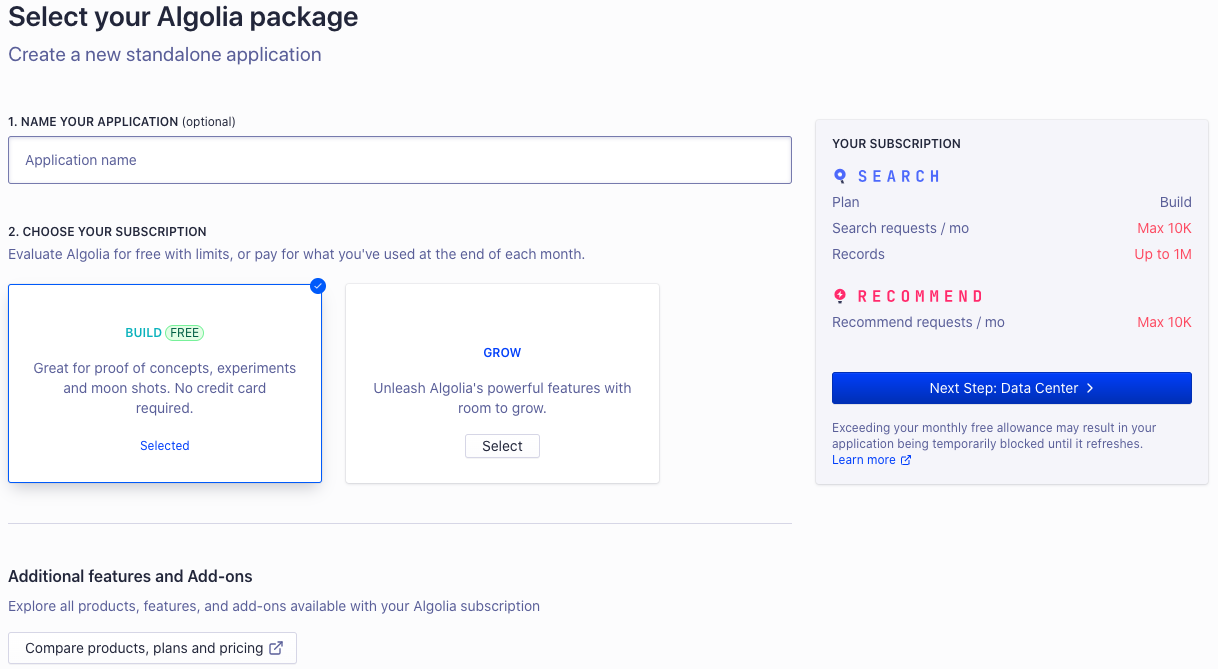
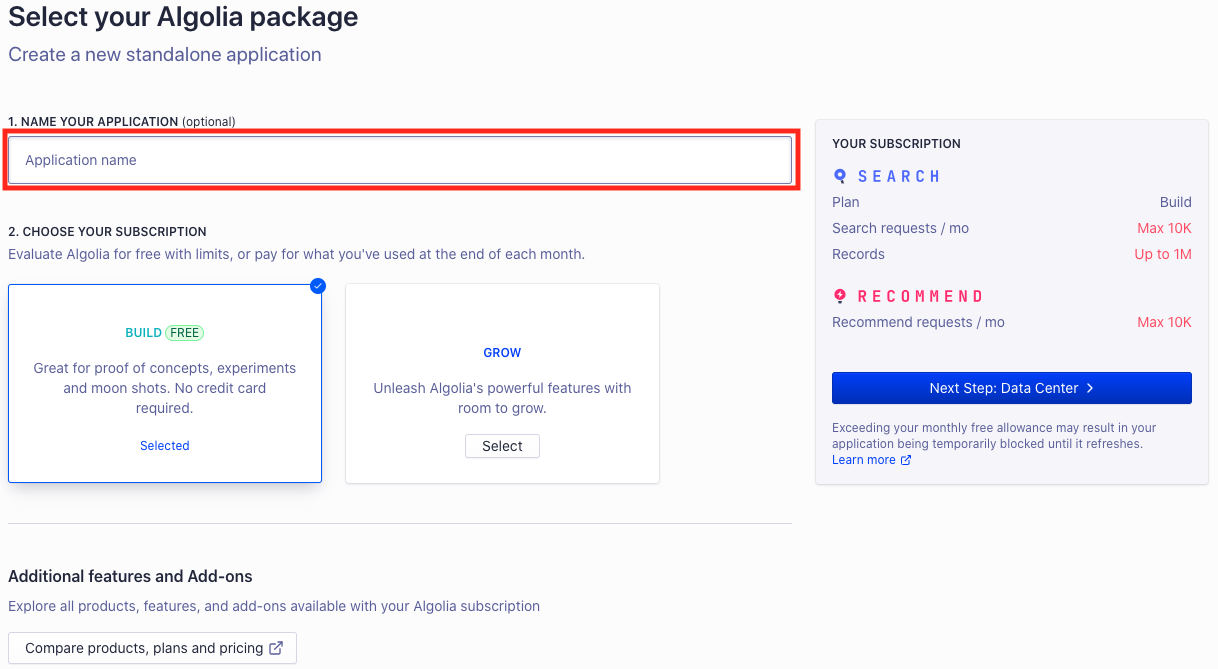
アプリケーションの作成　少し修正　ここはいい気する

Changed region(s): [[0.0, 0.1794, 0.6552, 0.299]]

diff --git a/_posts/algolia.md b/_posts/algolia.md
@@ -62,7 +62,9 @@ Algolia の公式ウェブサイトにアクセスし、アカウントを作成
 
 # アプリケーションの作成
 
-まず、Algolia 上でアプリケーションを作成します。
+まずは、Algolia 上でアプリケーションを作成します。
+
+Algolia でのアプリケーションとは、言うなれば Algolia でのプロジェクトのようなものです。このアプリケーションの単位で検索データや API を管理します。
 
 Application の欄から「Create Application」を押下します。
 
